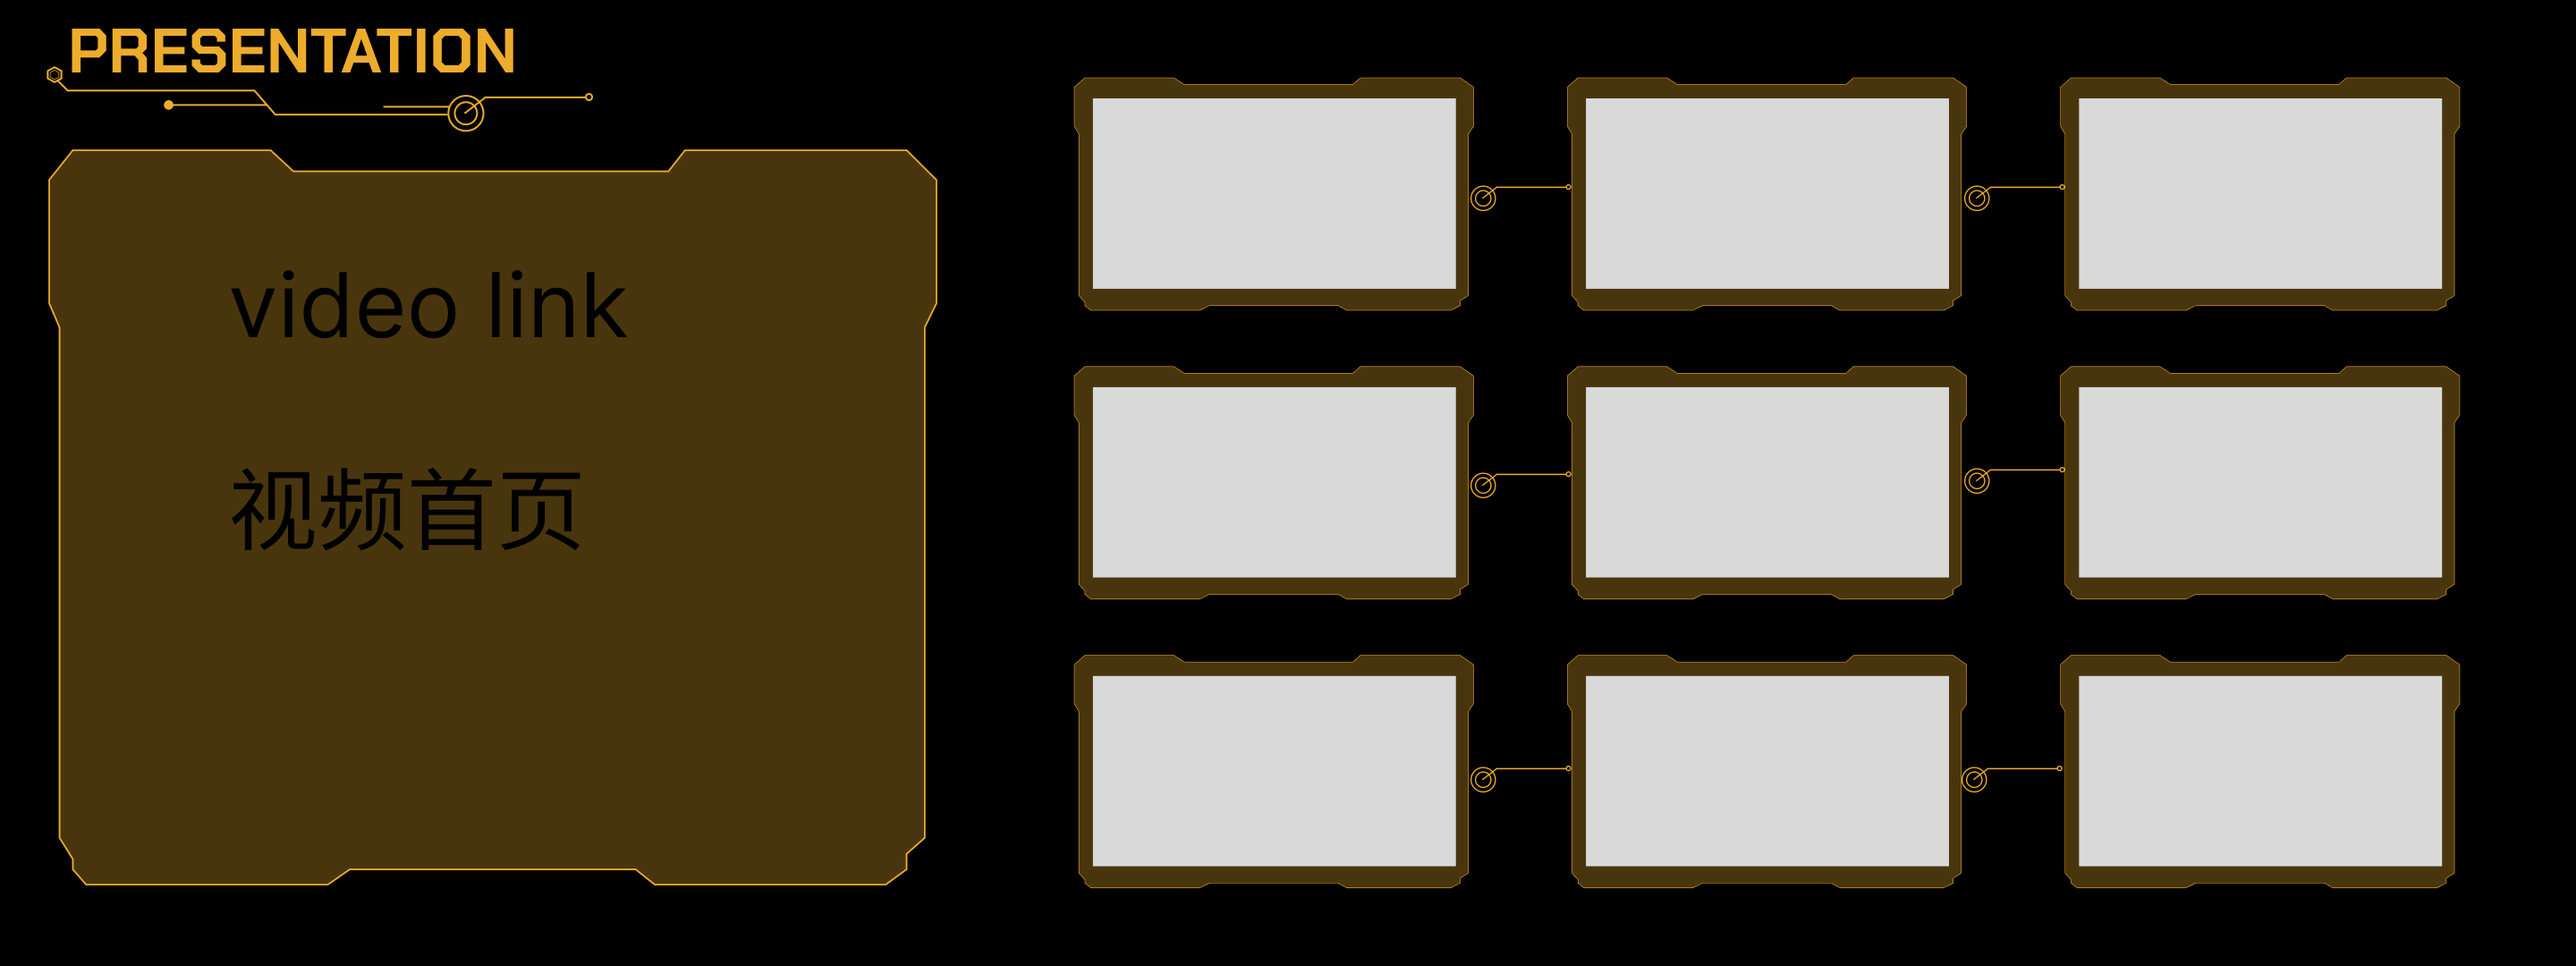
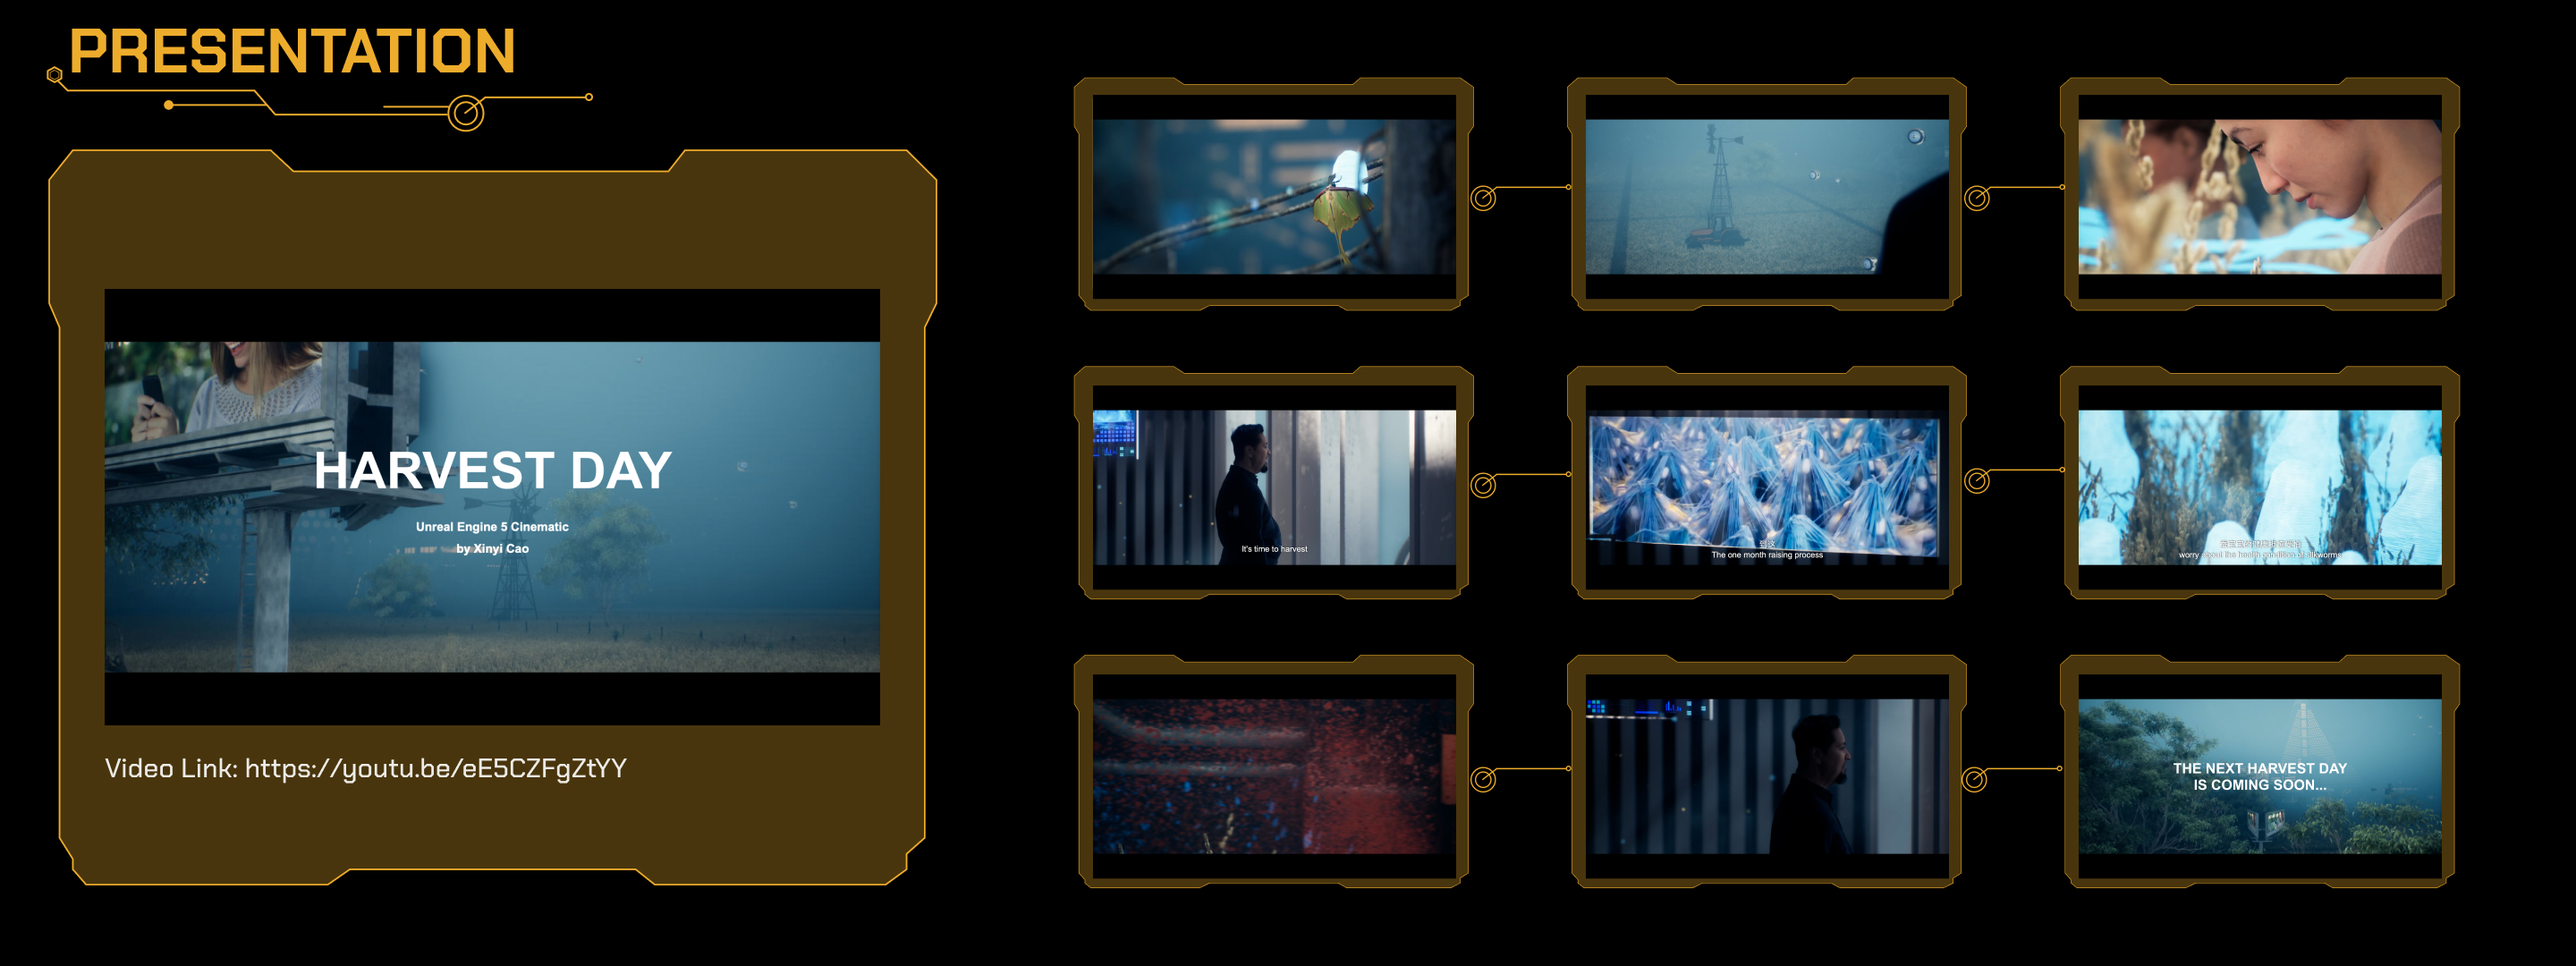
replace 2 pics and 1 youtube video

diff --git a/public/portfolio/ue5-animation-harvest-day/index.html b/public/portfolio/ue5-animation-harvest-day/index.html
@@ -120,7 +120,7 @@ if (!doNotTrack) {
          <p>This project is a 3D animated short film made in Unreal Engine 5. The film is about the digital labor that humans are forced to engage in today and the information cocoon that binds us.</p>
 <p>
 <div style="position: relative; padding-bottom: 56.25%; height: 0; overflow: hidden;">
-  <iframe src="https://www.youtube.com/embed/rUbK8Ig5P7Q" style="position: absolute; top: 0; left: 0; width: 100%; height: 100%; border:0;" allowfullscreen title="[ UE5 Animation ] Harvest Day"></iframe>
+  <iframe src="https://www.youtube.com/embed/eE5CZFgZtYY" style="position: absolute; top: 0; left: 0; width: 100%; height: 100%; border:0;" allowfullscreen title="[ UE5 Animation ] Harvest Day"></iframe>
 </div>
 
 <br>

diff --git a/content/portfolio/UE5-Animation-Harvest-Day.md b/content/portfolio/UE5-Animation-Harvest-Day.md
@@ -8,7 +8,7 @@ weight = 1
 
 This project is a 3D animated short film made in Unreal Engine 5. The film is about the digital labor that humans are forced to engage in today and the information cocoon that binds us.
 
-{{< youtube id="rUbK8Ig5P7Q" title="[ UE5 Animation ] Harvest Day" >}}
+{{< youtube id="eE5CZFgZtYY" title="[ UE5 Animation ] Harvest Day" >}}
 \
 [![\[ UE5 Animation \] Harvest Day Figure 1][1]][1]
 
